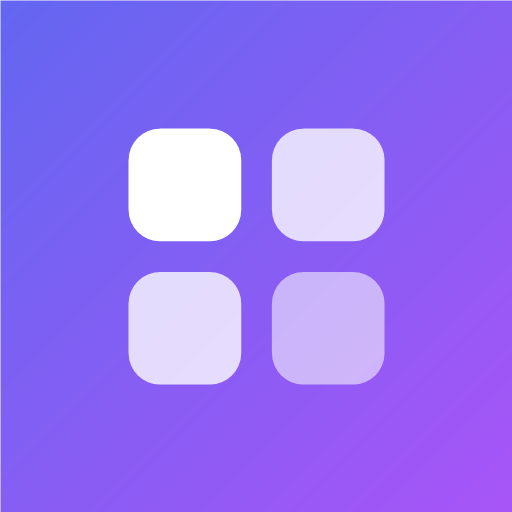
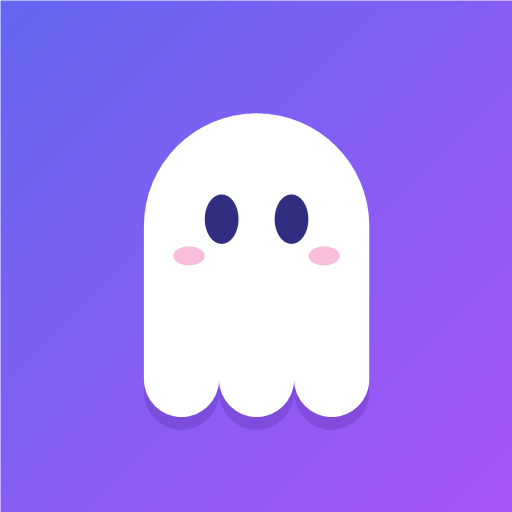
유령 아이콘 추가
- 홈 화면 앱 아이콘을 유령 캐릭터로 교체 (180/192/512)
- 헤더 제목 옆에 아이콘 표시, 버튼은 날짜 줄로 옮겨 제목이 잘리지 않게 함

Changed region(s): [[0.25, 0.2188, 0.75, 0.8438]]

diff --git a/index.html b/index.html
@@ -50,10 +50,12 @@
   }
   .wrap { max-width: 720px; margin: 0 auto; padding: 12px 16px 40px; }
 
-  header { display: flex; align-items: flex-end; justify-content: space-between; gap: 12px; padding: 16px 4px 12px; }
+  header { padding: 12px 4px 16px; }
   .date { font-size: 13px; font-weight: 600; color: var(--muted); text-transform: uppercase; letter-spacing: .04em; }
-  header > div:first-child { min-width: 0; }
-  h1 { margin: 2px 0 0; font-size: 28px; font-weight: 800; letter-spacing: -.02em; white-space: nowrap; overflow: hidden; text-overflow: ellipsis; }
+  .top { display: flex; align-items: center; justify-content: space-between; gap: 12px; }
+  .brand { display: flex; align-items: center; gap: 12px; margin-top: 6px; min-width: 0; }
+  .logo { width: 40px; height: 40px; border-radius: 10px; flex: none; box-shadow: 0 2px 6px rgba(79,70,229,.3); }
+  h1 { margin: 0; font-size: 30px; font-weight: 800; letter-spacing: -.02em; white-space: nowrap; overflow: hidden; text-overflow: ellipsis; }
   .actions { display: flex; gap: 8px; flex: none; white-space: nowrap; }
   .btn {
     appearance: none; border: 0; border-radius: 999px; padding: 8px 14px;
@@ -138,13 +140,16 @@
 <body>
 <div class="wrap">
   <header>
-    <div>
+    <div class="top">
       <div class="date" id="date"></div>
-      <h1 id="title">유령의 도구 모음</h1>
+      <div class="actions">
+        <button class="btn icon" id="menuBtn" aria-label="설정">⋯</button>
+        <button class="btn" id="editBtn">편집</button>
+      </div>
     </div>
-    <div class="actions">
-      <button class="btn icon" id="menuBtn" aria-label="설정">⋯</button>
-      <button class="btn" id="editBtn">편집</button>
+    <div class="brand">
+      <img class="logo" src="icons/icon-180.png" alt="" width="40" height="40">
+      <h1 id="title">유령의 도구 모음</h1>
     </div>
   </header>
 
